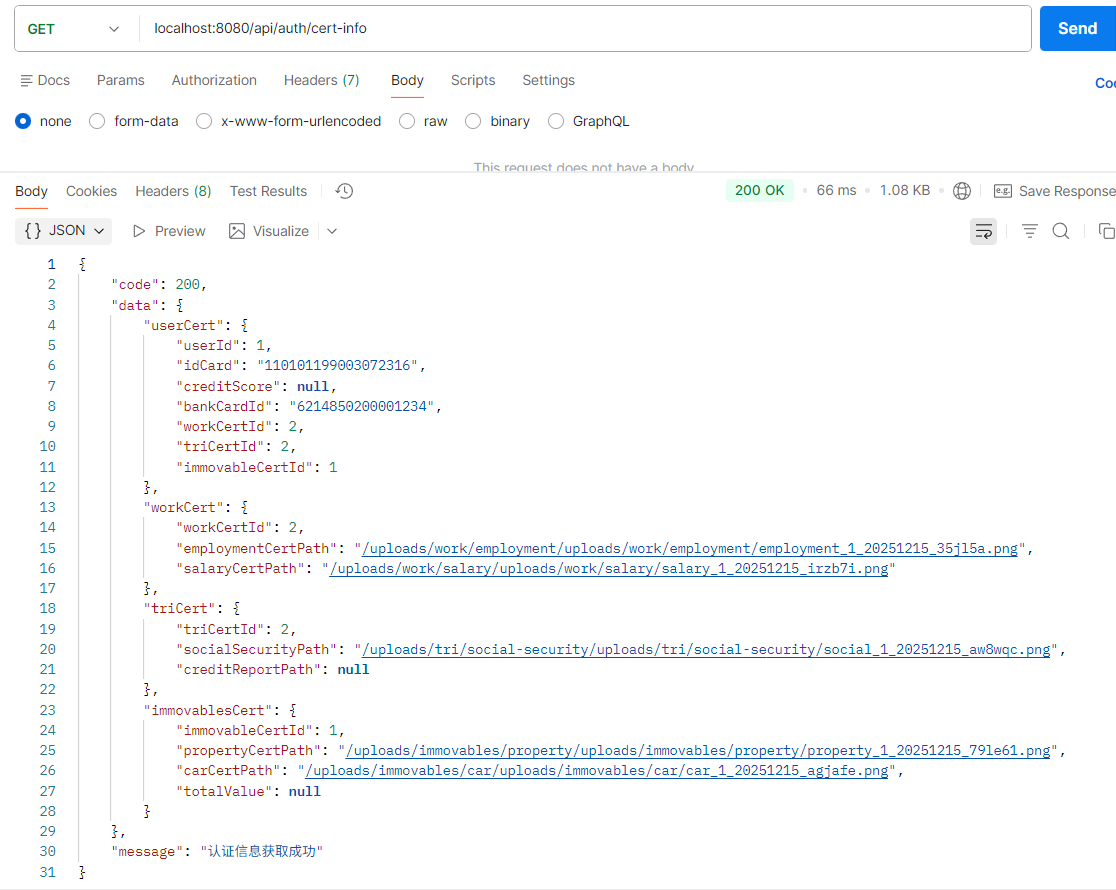
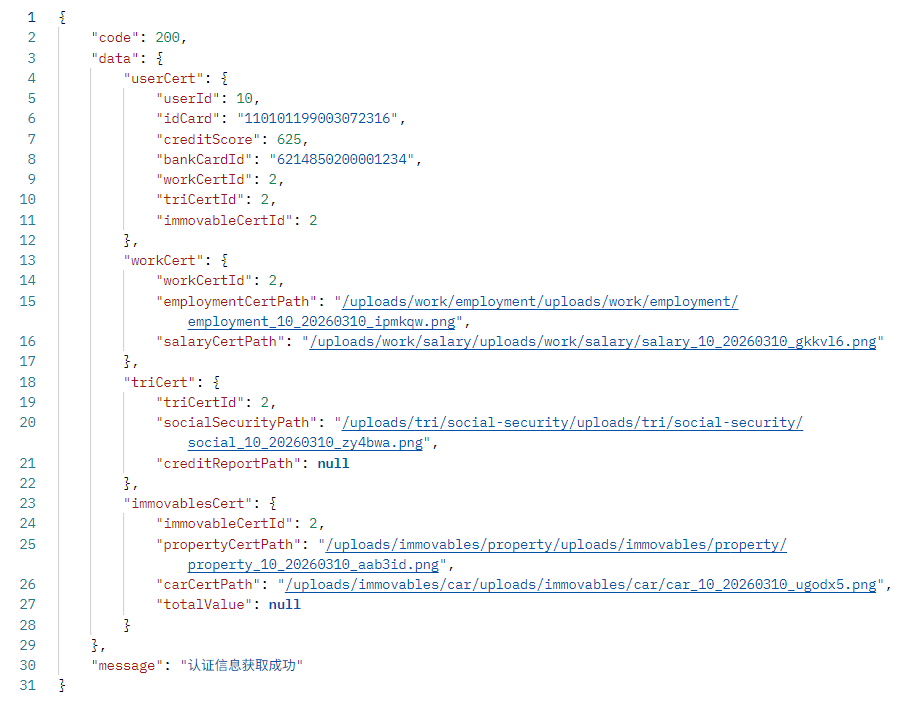
用户查询认证信息

diff --git a/project/backend/personal-loan/src/main/java/com/example/personal_loan/service/impl/AuthServiceImpl.java b/project/backend/personal-loan/src/main/java/com/example/personal_loan/service/impl/AuthServiceImpl.java
@@ -63,6 +63,8 @@ public class AuthServiceImpl implements AuthService{
             MultipartFile socialSecurityFile,
             MultipartFile creditReportFile) {
 
+        log.info("开始提交认证材料: userId={}, idCard={}, bankCardId={}", userId, idCard, bankCardId);
+
         // 1. 验证身份证号和银行卡号
         if (idCard.isBlank() || !IdCardUtils.isValid(idCard)) {
             throw new BusinessException(400, "身份证号不能为空或格式无效");
@@ -76,26 +78,34 @@ public class AuthServiceImpl implements AuthService{
         UserCert userCert = userCertMapper.selectByUserId(userId);
 
         // 3. 存储所有文件（任一失败则整体回滚）
+        log.info("开始存储所有认证文件...");
         String propertyPath = storeRequiredFile(propertyFile, "property", userId, fileStorageConfig.getPaths().getPropertyProof());
         String carPath = storeRequiredFile(carFile, "car", userId, fileStorageConfig.getPaths().getCarProof());
         String empPath = storeRequiredFile(employmentFile, "employment", userId, fileStorageConfig.getPaths().getEmploymentProof());
         String salPath = storeRequiredFile(salaryFile, "salary", userId, fileStorageConfig.getPaths().getSalaryProof());
         String ssPath = storeRequiredFile(socialSecurityFile, "social", userId, fileStorageConfig.getPaths().getSocialSecurity());
         String crPath = storeRequiredFile(creditReportFile, "credit", userId, fileStorageConfig.getPaths().getCreditReport());
+        log.info("所有文件存储完成: propertyPath={}, carPath={}, empPath={}, salPath={}, ssPath={}, crPath={}", 
+            propertyPath, carPath, empPath, salPath, ssPath, crPath);
 
         // 4. 处理不动产认证
         handleImmovablesCert(userCert, propertyPath, carPath);
+        log.info("不动产认证处理完成: immovableCertId={}", userCert.getImmovableCertId());
 
         // 5. 处理工作认证
         handleWorkCert(userCert, empPath, salPath);
+        log.info("工作认证处理完成: workCertId={}", userCert.getWorkCertId());
 
         // 6. 处理第三方认证
         handleTriCert(userCert, ssPath, crPath);
+        log.info("第三方认证处理完成: triCertId={}", userCert.getTriCertId());
 
         // 7. 更新主表中的文本字段
         userCert.setIdCard(idCard);
         userCert.setBankCardId(bankCardId);
         userCertMapper.update(userCert);
+        
+        log.info("认证材料提交成功: userId={}", userId);
     }
 
     // 计算贷款分数(125x6=750)
@@ -223,9 +233,14 @@ public class AuthServiceImpl implements AuthService{
 
     private String storeRequiredFile(MultipartFile file, String type, Long userId, String basePath) {
         if (file == null || file.isEmpty()) {
+            log.warn("文件为空，跳过存储: type={}, userId={}", type, userId);
             return null;
         }
-        return fileStorageService.storeFile(file, type, userId, basePath);
+        log.info("开始存储文件: type={}, userId={}, originalFilename={}, size={}", 
+            type, userId, file.getOriginalFilename(), file.getSize());
+        String storedPath = fileStorageService.storeFile(file, type, userId, basePath);
+        log.info("文件存储成功: type={}, userId={}, storedPath={}", type, userId, storedPath);
+        return storedPath;
     }
 
     private void handleImmovablesCert(UserCert userCert, String propertyPath, String carPath) {

diff --git a/project/backend/personal-loan/src/main/java/com/example/personal_loan/handler/GlobalExceptionHandler.java b/project/backend/personal-loan/src/main/java/com/example/personal_loan/handler/GlobalExceptionHandler.java
@@ -35,6 +35,30 @@ public class GlobalExceptionHandler {
         return ResponseEntity.status(HttpStatus.BAD_REQUEST).body(response);
     }
 
+    @ExceptionHandler(RuntimeException.class)
+    public ResponseEntity<Map<String, Object>> handleRuntimeException(RuntimeException e) {
+        log.error("运行时异常: {}", e.getMessage(), e);
+
+        Map<String, Object> response = new HashMap<>();
+        response.put("code", 500);
+        response.put("message", "系统内部错误: " + e.getMessage());
+        response.put("data", null);
+
+        return ResponseEntity.status(HttpStatus.INTERNAL_SERVER_ERROR).body(response);
+    }
+
+    @ExceptionHandler(Exception.class)
+    public ResponseEntity<Map<String, Object>> handleException(Exception e) {
+        log.error("系统异常: {}", e.getMessage(), e);
+
+        Map<String, Object> response = new HashMap<>();
+        response.put("code", 500);
+        response.put("message", "系统内部错误: " + e.getMessage());
+        response.put("data", null);
+
+        return ResponseEntity.status(HttpStatus.INTERNAL_SERVER_ERROR).body(response);
+    }
+
     @ExceptionHandler(InvalidCredentialsException.class)
     public ResponseEntity<Map<String, Object>> handleAuthError(InvalidCredentialsException e) {
         Map<String, Object> body = new HashMap<>();

diff --git a/project/backend/personal-loan/src/main/java/com/example/personal_loan/controller/AuthController.java b/project/backend/personal-loan/src/main/java/com/example/personal_loan/controller/AuthController.java
@@ -77,17 +77,6 @@ public class AuthController {
     }   
 
     /**
-     * 计算贷款分数
-     */
-    @GetMapping("/score")
-    public ResponseEntity<ApiResponse<Integer>> calScore(HttpServletRequest request) {
-        log.info("/api/auth/score success called");
-        Long userId = (Long) request.getAttribute("userId");
-        int score = authService.calScore(userId);
-        return ResponseEntity.ok(ApiResponse.success(score));
-    }
-
-    /**
      * 获取已经上传的认证信息
      */
     @GetMapping("/cert-info")

diff --git a/project/backend/personal-loan/src/main/java/com/example/personal_loan/service/impl/LocalFileStorageServiceImpl.java b/project/backend/personal-loan/src/main/java/com/example/personal_loan/service/impl/LocalFileStorageServiceImpl.java
@@ -57,6 +57,7 @@ public class LocalFileStorageServiceImpl implements LocalFileStorageService{
             return "/uploads/" + subDirPath + "/" + filename;
 
         } catch (IOException e) {
+            log.error("文件存储失败: prefix={}, userId={}, error={}", prefix, userId, e.getMessage(), e);
             throw new RuntimeException("文件存储失败: " + e.getMessage(), e);
         }
     }

diff --git a/project/backend/document/接口文档/Auth.md b/project/backend/document/接口文档/Auth.md
@@ -136,3 +136,50 @@
 **postman测试结果**
 
 ![](../AuthImgs/submitAll.png "用户上传认证材料成功")
+
+## 获取已经上传的认证信息
+
+**网址**：/api/auth/cert-info
+
+**请求方式** GET
+
+**返回数据**：
+
+``` json
+{
+    "code": 200,
+    "data": {
+        "userCert": {
+            "userId": 10,
+            "idCard": "110101199003072316",
+            "creditScore": 625,
+            "bankCardId": "6214850200001234",
+            "workCertId": 2,
+            "triCertId": 2,
+            "immovableCertId": 2
+        },
+        "workCert": {
+            "workCertId": 2,
+            "employmentCertPath": "/uploads/work/employment/uploads/work/employment/employment_10_20260310_ipmkqw.png",
+            "salaryCertPath": "/uploads/work/salary/uploads/work/salary/salary_10_20260310_gkkvl6.png"
+        },
+        "triCert": {
+            "triCertId": 2,
+            "socialSecurityPath": "/uploads/tri/social-security/uploads/tri/social-security/social_10_20260310_zy4bwa.png",
+            "creditReportPath": null
+        },
+        "immovablesCert": {
+            "immovableCertId": 2,
+            "propertyCertPath": "/uploads/immovables/property/uploads/immovables/property/property_10_20260310_aab3id.png",
+            "carCertPath": "/uploads/immovables/car/uploads/immovables/car/car_10_20260310_ugodx5.png",
+            "totalValue": null
+        }
+    },
+    "message": "认证信息获取成功"
+}
+```
+
+**postman测试结果**：
+
+**成功**
+![](../AuthImgs/getCert.png "获取认证信息成功")

diff --git a/project/backend/document/综设2每周计划.md b/project/backend/document/综设2每周计划.md
@@ -1,0 +1,41 @@
+# 综设2每周计划
+
+## 第二周（2026-03-09至2026-03-15）
+
+1. 优化AI审批逻辑 ：将 AIApproveServiceImpl.java 中的随机审批改为基于规则的初步风控，即根据黑名单，信誉分，最高额度，认证材料，贷款期限，利率，申请金额，综合计算AI通过率。
+
+    黑名单规则
+
+    - 用户在黑名单，直接拒绝
+
+    信誉分规则
+
+    - 信誉分越高，设置通过率越高
+
+    申请金额规则
+
+    - 申请金额 ≤ 用户最高额度 × 0.5：通过率 +20%
+    - 申请金额 ≤ 用户最高额度 × 0.8：通过率 +10%
+
+    认证材料规则
+
+    - 完整认证（工作+第三方+不动产）：通过率 +30%
+    - 部分认证（任意2项）：通过率 +15%
+    - 单项认证：通过率 +5%
+    - 无认证：通过率 -20%
+
+    贷款期限规则
+
+    - 期限 ≤ 12个月：通过率 +10%
+    - 期限 13-36个月：通过率 +5%
+    - 期限 > 36个月：通过率 -10%
+
+    利率规则
+
+    - 利率 ≤ 5%：通过率 +5%
+    - 利率 5%-10%：通过率 -5%
+    - 利率 > 10%：通过率 -10%
+
+2. 代码规范：统一命名规范，移除重复代码，为业务逻辑层的方法添加必要的注释。
+
+3. 实现认证材料上传、修改、查看功能

diff --git a/project/backend/document/项目计划书.md b/project/backend/document/项目计划书.md
@@ -28,8 +28,6 @@
 
 3. 文档完善
    - 更新所有接口文档，补充请求参数和响应示例
-   - 编写系统架构文档，描述各模块之间的关系，使用架构图可视化展示
-   - 更新API接口文档
 
 ### 第3-4周：Web爬虫技术集成
 
